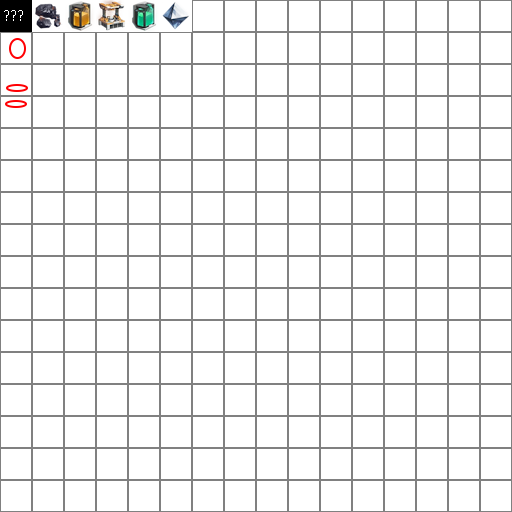
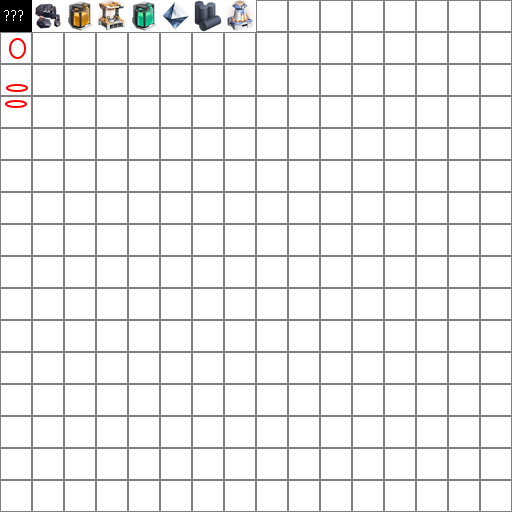
nice visual for common node

Changed region(s): [[0.375, 0.0, 0.5, 0.0625]]

diff --git a/imgui/imnodes.cpp b/imgui/imnodes.cpp
@@ -2597,15 +2597,37 @@ inline ImVec2 GetNodeContentOrigin(const ImNodeData& node)
     return GridSpaceToEditorSpace(editor, node.Origin) + title_bar_height + node.LayoutStyle.Padding*editor.Zoom;
 }
 
+inline ImVec2 GetNodeFooterEnd(const ImNodeData& node)
+{
+    const ImNodesEditorContext& editor = EditorContextGet();
+    const ImVec2 footer_height =
+        ImVec2(0.f, node.FooterContentRect.GetHeight() + 2.0f * node.LayoutStyle.Padding.y * editor.Zoom);
+    return GridSpaceToEditorSpace(editor, node.Origin) + footer_height + node.LayoutStyle.Padding * editor.Zoom;
+}
+
 inline ImRect GetNodeTitleRect(const ImNodeData& node)
 {
     ImRect expanded_title_rect = node.TitleBarContentRect;
-    expanded_title_rect.Expand(node.LayoutStyle.Padding);
+    ImNodesEditorContext& editor = EditorContextGet();
+    expanded_title_rect.Expand(node.LayoutStyle.Padding * editor.Zoom);
 
     return ImRect(
         expanded_title_rect.Min,
         expanded_title_rect.Min + ImVec2(node.Rect.GetWidth(), 0.f) +
             ImVec2(0.f, expanded_title_rect.GetHeight()));
+}
+
+inline ImRect GetNodeFootRect(const ImNodeData& node)
+{
+    ImRect expanded_foot_rect = node.FooterContentRect;
+    
+    ImNodesEditorContext& editor = EditorContextGet();
+    expanded_foot_rect.Expand(node.LayoutStyle.Padding * editor.Zoom);
+
+    return ImRect(
+        expanded_foot_rect.Min,
+        expanded_foot_rect.Min + ImVec2(node.Rect.GetWidth(), 0.f) +
+        ImVec2(0.f, expanded_foot_rect.GetHeight()));
 }
 
 void DrawGrid(ImNodesEditorContext& editor, const ImVec2& canvas_size)
@@ -2789,16 +2811,19 @@ void DrawNode(ImNodesEditorContext& editor, const int node_idx)
 
     ImU32 node_background = node.ColorStyle.Background;
     ImU32 titlebar_background = node.ColorStyle.Titlebar;
+    ImU32 footer_background = node.ColorStyle.Footer;
 
     if (editor.SelectedNodeIndices.contains(node_idx))
     {
         node_background = node.ColorStyle.BackgroundSelected;
         titlebar_background = node.ColorStyle.TitlebarSelected;
+        footer_background = node.ColorStyle.FooterSelected;
     }
     else if (node_hovered)
     {
         node_background = node.ColorStyle.BackgroundHovered;
         titlebar_background = node.ColorStyle.TitlebarHovered;
+        footer_background = node.ColorStyle.FooterHovered;
     }
 
     {
@@ -2828,6 +2853,29 @@ void DrawNode(ImNodesEditorContext& editor, const int node_idx)
 
 #endif
         }
+
+        // footer:
+        if (node.FooterContentRect.GetHeight() > 0.f)
+        {
+            ImRect foot_bar_rect = GetNodeFootRect(node);
+
+#if IMGUI_VERSION_NUM < 18200
+            GImNodes->CanvasDrawList->AddRectFilled(
+                foot_bar_rect.Min,
+                foot_bar_rect.Max,
+                titlebar_background,
+                node.LayoutStyle.CornerRounding,
+                ImDrawCornerFlags_Top);
+#else
+            GImNodes->CanvasDrawList->AddRectFilled(
+                foot_bar_rect.Min,
+                foot_bar_rect.Max,
+                footer_background,
+                node.LayoutStyle.CornerRounding * editor.Zoom,
+                ImDrawFlags_RoundCornersBottom);
+
+#endif
+    }
 
         if ((GImNodes->Style.Flags & ImNodesStyleFlags_NodeOutline) != 0)
         {
@@ -3399,6 +3447,7 @@ void CreateContextFont(ImNodesContext* ctx) {
         0,
     };
     conf.GlyphRanges = ranges;
+    //conf.GlyphExtraSpacing = ImVec2(1, 1);
     const static float BASE_FONT_SIZE = 13.0f;
     ImGuiIO& io = ImGui::GetIO();
 
@@ -3640,6 +3689,10 @@ void StyleColorsBluePrint(ImNodesStyle* dest)
     dest->Colors[ImNodesCol_TitleBar] = IM_COL32(30, 107, 193, 100);
     dest->Colors[ImNodesCol_TitleBarHovered] = IM_COL32(54, 131, 217, 100);
     dest->Colors[ImNodesCol_TitleBarSelected] = IM_COL32(54, 131, 217, 100);
+
+    dest->Colors[ImNodesCol_Footer] = IM_COL32(30, 107, 193, 100);
+    dest->Colors[ImNodesCol_FooterHovered] = IM_COL32(54, 131, 217, 100);
+    dest->Colors[ImNodesCol_FooterSelected] = IM_COL32(54, 131, 217, 100);
 
     dest->Colors[ImNodesCol_Pin] = IM_COL32(200, 200, 200, 255);
     dest->Colors[ImNodesCol_PinHovered] = IM_COL32(255, 255, 255, 255);
@@ -4074,6 +4127,9 @@ void BeginNode(const int node_id)
     node.ColorStyle.Titlebar = GImNodes->Style.Colors[ImNodesCol_TitleBar];
     node.ColorStyle.TitlebarHovered = GImNodes->Style.Colors[ImNodesCol_TitleBarHovered];
     node.ColorStyle.TitlebarSelected = GImNodes->Style.Colors[ImNodesCol_TitleBarSelected];
+    node.ColorStyle.Footer = GImNodes->Style.Colors[ImNodesCol_Footer];
+    node.ColorStyle.FooterHovered = GImNodes->Style.Colors[ImNodesCol_FooterHovered];
+    node.ColorStyle.FooterSelected = GImNodes->Style.Colors[ImNodesCol_FooterSelected];
     node.LayoutStyle.CornerRounding = GImNodes->Style.NodeCornerRounding;
     node.LayoutStyle.Padding = GImNodes->Style.NodePadding;
     node.LayoutStyle.BorderThickness = GImNodes->Style.NodeBorderThickness;
@@ -4129,18 +4185,38 @@ void BeginNodeTitleBar()
     ImGui::BeginGroup();
 }
 
+void BeginNodeFooter()
+{
+    IM_ASSERT(GImNodes->CurrentScope == ImNodesScope_Node);
+    
+    ImNodesEditorContext& editor = EditorContextGet();
+    ImNodeData& node = editor.Nodes.Pool[GImNodes->CurrentNodeIdx];
+    ImGui::SetCursorPos(ImGui::GetCursorPos()+ImVec2(0, 2.0f * node.LayoutStyle.Padding.y * editor.Zoom));
+    
+    ImGui::BeginGroup();
+}
+
 void EndNodeTitleBar()
 {
     IM_ASSERT(GImNodes->CurrentScope == ImNodesScope_Node);
     ImGui::EndGroup();
 
     ImNodesEditorContext& editor = EditorContextGet();
-    ImNodeData&           node = editor.Nodes.Pool[GImNodes->CurrentNodeIdx];
+    ImNodeData& node = editor.Nodes.Pool[GImNodes->CurrentNodeIdx];
     node.TitleBarContentRect = GetItemRect();
-
-    ImGui::ItemAdd(GetNodeTitleRect(node), ImGui::GetID("title_bar"));
+    //ImGui::ItemAdd(GetNodeTitleRect(node), ImGui::GetID("title_bar"));
 
     ImGui::SetCursorPos(GetNodeContentOrigin(node));
+}
+
+void EndNodeFooter()
+{
+    IM_ASSERT(GImNodes->CurrentScope == ImNodesScope_Node);
+    ImGui::EndGroup();
+
+    ImNodesEditorContext& editor = EditorContextGet();
+    ImNodeData& node = editor.Nodes.Pool[GImNodes->CurrentNodeIdx];
+    node.FooterContentRect = GetItemRect();
 }
 
 void BeginInputAttribute(const int id, const ImNodesPinShape shape)

diff --git a/imgui/imnodes_internal.h b/imgui/imnodes_internal.h
@@ -161,12 +161,13 @@ struct ImNodeData
     int    Id;
     ImVec2 Origin; // The node origin is in editor space
     ImRect TitleBarContentRect;
+    ImRect FooterContentRect;
     ImRect Rect;
 
     struct
     {
         ImU32 Background, BackgroundHovered, BackgroundSelected, Outline, Titlebar, TitlebarHovered,
-            TitlebarSelected;
+            TitlebarSelected, Footer, FooterHovered, FooterSelected;
     } ColorStyle;
 
     struct
@@ -180,7 +181,7 @@ struct ImNodeData
     bool          Draggable;
 
     ImNodeData(const int node_id)
-        : Id(node_id), Origin(0.0f, 0.0f), TitleBarContentRect(),
+        : Id(node_id), Origin(0.0f, 0.0f), TitleBarContentRect(), FooterContentRect(),
           Rect(ImVec2(0.0f, 0.0f), ImVec2(0.0f, 0.0f)), ColorStyle(), LayoutStyle(), PinIndices(),
           Draggable(true)
     {
@@ -486,7 +487,7 @@ struct ImNodesEditorContext
     ImNodesEventVarElement current_event;
 
     ImNodesEditorContext()
-        : Nodes(), Pins(), Links(), LinkControls(), Labels(), Panning(0.f, 0.f), Zoom(1.0f), BaseItemSpacing(8, 4), BaseItemInnerSpacing(4, 4), BaseInbetweenItemSpacing(25, 0), SelectedNodeIndices(), SelectedLinkIndices(),
+        : Nodes(), Pins(), Links(), LinkControls(), Labels(), Panning(0.f, 0.f), Zoom(1.0f), BaseItemSpacing(8, 4), BaseItemInnerSpacing(4, 4), BaseInbetweenItemSpacing(25, 5), SelectedNodeIndices(), SelectedLinkIndices(),
           SelectedNodeOffsets(), SelectedLabelIndices(), PrimaryNodeOffset(0.f, 0.f), ClickInteraction(),
           MiniMapEnabled(false), MiniMapSizeFraction(0.0f), MiniMapNodeHoveringCallback(NULL),
           MiniMapNodeHoveringCallbackUserData(NULL), MiniMapScaling(0.0f), current_event()

diff --git a/node.h b/node.h
@@ -5,6 +5,7 @@
 #include <iostream>
 #include "json11.hpp"
 #include "data_base.h"
+#include <format>
 
 //Node viwer will write states in this SHARED struct
 struct NodeUpdator {
@@ -70,12 +71,8 @@ struct NodeIOViewer {
 			ImNodes::BeginInputAttribute(GetId());
 		else
 			ImNodes::BeginOutputAttribute(GetId());
-
-		//ImGui::Text("NodeIO ressource : %d", nodeIO->ressource);
 		const Item& item = dataBase->getItem(nodeIO->itemId);
-		ImGui::Text((item.iconeString+" "+item.name).c_str());
-		ImGui::SameLine();
-		ImGui::Text("%.2f", nodeIO->quantity);
+		ImGui::Text((item.iconeString + " " + item.name + std::format(" {}", nodeIO->quantity)).c_str());
 
 		if (isInput)
 			ImNodes::EndInputAttribute();
@@ -117,6 +114,7 @@ public:
 
 	int GetId() const;
 	int GetMachineId() const;
+	float GetTime() const;
 	int GetState(int i) const;
 	int GetStateSize() const;
 

diff --git a/imgui/imnodes.h b/imgui/imnodes.h
@@ -33,6 +33,9 @@ enum ImNodesCol_
     ImNodesCol_TitleBar,
     ImNodesCol_TitleBarHovered,
     ImNodesCol_TitleBarSelected,
+    ImNodesCol_Footer,
+    ImNodesCol_FooterHovered,
+    ImNodesCol_FooterSelected,
     ImNodesCol_Link,
     ImNodesCol_LinkHovered,
     ImNodesCol_LinkSelected,
@@ -389,6 +392,9 @@ ImVec2 GetNodeDimensions(int id);
 // layout of the node will be incorrect.
 void BeginNodeTitleBar();
 void EndNodeTitleBar();
+
+void BeginNodeFooter();
+void EndNodeFooter();
 
 // Attributes are ImGui UI elements embedded within the node. Attributes can have pin shapes
 // rendered next to them. Links are created between pins.

diff --git a/node.cpp b/node.cpp
@@ -127,6 +127,10 @@ int Node::GetMachineId() const {
 	return machineId;
 }
 
+float Node::GetTime() const {
+	return time;
+}
+
 int Node::GetState(int i) const {
 	return state[i];
 }
@@ -317,6 +321,10 @@ void NodeViewer::Draw() {
 		ImGui::EndTable();
 		size = ImVec2(width_input + width_output+ ImGui::GetStyle().CellPadding.x, height_total);
 	}
+
+	ImNodes::BeginNodeFooter();
+	ImGui::Text(std::format("nb machines : {}  -  time : {}s", "?", node->GetTime()).c_str());
+	ImNodes::EndNodeFooter();
 
 	ImNodes::EndNode();	
 }
